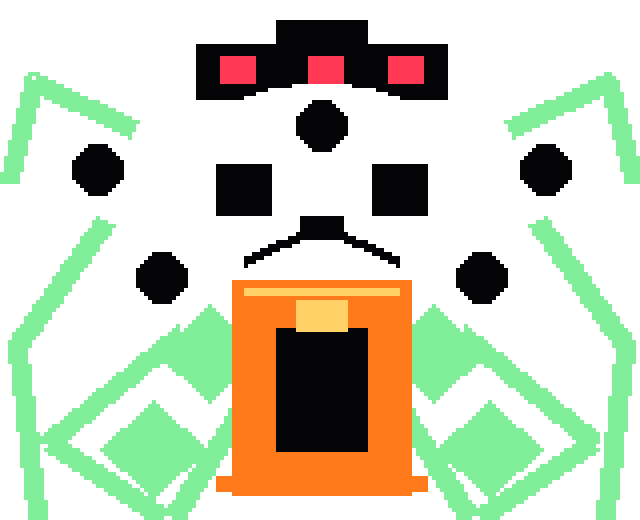
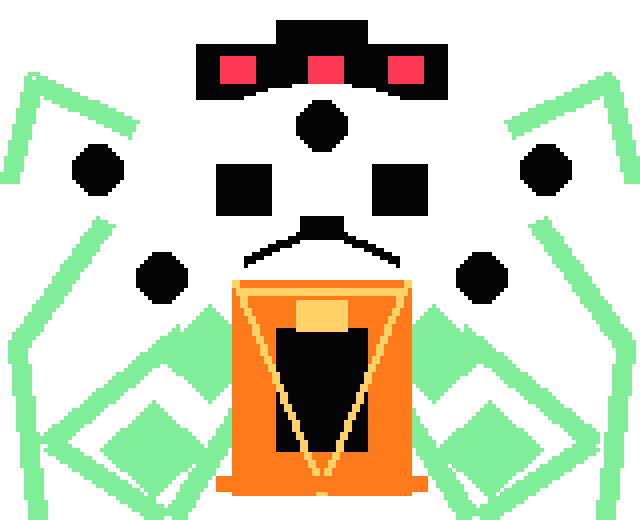
Boost portrait contrast and signature attack speed

diff --git a/script.js b/script.js
@@ -1132,10 +1132,10 @@ function undynePattern(dt) {
     const index = sequenceIndex(0.62);
     const lane = [0.18, 0.36, 0.64, 0.82, 0.5, 0.28, 0.72][index % 7];
     const fromLeft = index % 2 === 0;
-    spawn("spear", { x: fromLeft ? arena.x - 35 : arena.x + arena.w + 35, y: arena.y + arena.h * lane, vx: fromLeft ? 304 : -304, vy: 0, r: 13, angle: fromLeft ? 0 : Math.PI, delay: intensityRange(0.34, 0.24) });
+      spawn("spear", { x: fromLeft ? arena.x - 35 : arena.x + arena.w + 35, y: arena.y + arena.h * lane, vx: fromLeft ? 326 : -326, vy: 0, r: 13, angle: fromLeft ? 0 : Math.PI, delay: intensityRange(0.32, 0.22) });
     if (index % 3 !== 1) {
       const x = arena.x + arena.w * ([0.24, 0.5, 0.76, 0.38, 0.62][index % 5]);
-      spawn("spear", { x, y: arena.y - 35, vx: 0, vy: 266, r: 13, angle: Math.PI / 2, delay: intensityRange(0.42, 0.3) });
+      spawn("spear", { x, y: arena.y - 35, vx: 0, vy: 286, r: 13, angle: Math.PI / 2, delay: intensityRange(0.4, 0.28) });
     }
   }
   if (state.wave === 2 && every("cyclone", 0.34 - attackIntensity() * 0.06, dt)) {
@@ -1145,7 +1145,7 @@ function undynePattern(dt) {
     const x = arena.x + arena.w / 2 + Math.cos(angle) * radiusX;
     const y = arena.y + arena.h / 2 + Math.sin(angle) * radiusY;
     const toward = Math.atan2(state.player.y - y, state.player.x - x);
-    const speed = 232 + attackIntensity() * 46;
+    const speed = 248 + attackIntensity() * 56;
     spawn("spear", { x, y, vx: Math.cos(toward) * speed, vy: Math.sin(toward) * speed, r: 12, angle: toward, delay: intensityRange(0.24, 0.16) });
   }
 }
@@ -1190,8 +1190,8 @@ function asgorePattern(dt) {
     const lane = sequencedEvery("sweep", interval, dt, [0.24, 0.5, 0.76, 0.36, 0.64]);
     if (lane !== null) {
       const y = arena.y + arena.h * lane;
-      spawn("trident", { x: arena.x - 60, y, vx: 440, vy: 0, r: 22, angle: 0, delay: intensityRange(0.5, 0.34) });
-      if (state.wave === 2) spawn("trident", { x: arena.x + arena.w + 60, y: arena.y + arena.h * (1 - lane), vx: -440, vy: 0, r: 22, angle: Math.PI, delay: intensityRange(0.5, 0.34) });
+      spawn("trident", { x: arena.x - 60, y, vx: 472, vy: 0, r: 22, angle: 0, delay: intensityRange(0.48, 0.32) });
+      if (state.wave === 2) spawn("trident", { x: arena.x + arena.w + 60, y: arena.y + arena.h * (1 - lane), vx: -472, vy: 0, r: 22, angle: Math.PI, delay: intensityRange(0.48, 0.32) });
     }
   }
   if (state.wave === 2 && every("flame-curtain", 0.42, dt)) {
@@ -1300,8 +1300,8 @@ function sansPattern(dt) {
     const index = sequenceIndex(boneInterval);
     const h = heights[index % heights.length];
     const speed = 242 + progress * 48;
-    spawn("bone", { x: arena.x + arena.w + 28, y: arena.y + arena.h - h / 2, vx: -speed, vy: 0, r: 14, h });
-    if (state.wave >= 1 && index % 3 !== 1) spawn("bone", { x: arena.x - 28, y: arena.y + h / 2, vx: speed - 18, vy: 0, r: 14, h: Math.max(42, h * 0.62) });
+    spawn("bone", { x: arena.x + arena.w + 28, y: arena.y + arena.h - h / 2, vx: -speed - 12, vy: 0, r: 14, h });
+    if (state.wave >= 1 && index % 3 !== 1) spawn("bone", { x: arena.x - 28, y: arena.y + h / 2, vx: speed, vy: 0, r: 14, h: Math.max(42, h * 0.62) });
   }
   if (state.wave >= 1) {
     const xFrac = sequencedEvery("sans-blue", 0.8, dt, [0.2, 0.42, 0.64, 0.82, 0.34, 0.56]);
@@ -1334,8 +1334,8 @@ function sansPattern(dt) {
         vy: 0,
         r: 24,
         horizontal: beam === "h",
-        warn: intensityRange(0.5, 0.38),
-        life: 0.96,
+        warn: intensityRange(0.46, 0.34),
+        life: 0.88,
       });
     }
   }
@@ -1399,8 +1399,8 @@ function undyingPattern(dt) {
   const crossInterval = 0.58 - progress * 0.06;
   if (state.wave >= 1 && every("undying-cross", crossInterval, dt)) {
     const index = sequenceIndex(crossInterval);
-    spawn("spear", { x: arena.x + arena.w * ([0.2, 0.42, 0.68, 0.84, 0.34, 0.58][index % 6]), y: arena.y - 35, vx: 0, vy: 292 + progress * 26, r: 12, angle: Math.PI / 2, delay: intensityRange(0.26, 0.18) });
-    if (index % 3 !== 1) spawn("spear", { x: arena.x - 35, y: arena.y + arena.h * ([0.26, 0.52, 0.76][index % 3]), vx: 304 + progress * 26, vy: 0, r: 12, angle: 0, delay: intensityRange(0.3, 0.2) });
+    spawn("spear", { x: arena.x + arena.w * ([0.2, 0.42, 0.68, 0.84, 0.34, 0.58][index % 6]), y: arena.y - 35, vx: 0, vy: 314 + progress * 32, r: 12, angle: Math.PI / 2, delay: intensityRange(0.24, 0.16) });
+    if (index % 3 !== 1) spawn("spear", { x: arena.x - 35, y: arena.y + arena.h * ([0.26, 0.52, 0.76][index % 3]), vx: 328 + progress * 30, vy: 0, r: 12, angle: 0, delay: intensityRange(0.28, 0.18) });
   }
 }
 

diff --git a/tools/generate_boss_portraits.py b/tools/generate_boss_portraits.py
@@ -76,6 +76,11 @@ def chest_heart(draw, cx, cy, color=RED):
     rect(draw, (cx - 2, cy + 8, cx + 2, cy + 12), color)
 
 
+def trim_panel(draw, x1, y1, x2, y2, color=WHITE, accent=BLACK):
+    line(draw, [(x1, y1), ((x1 + x2) // 2, y2), (x2, y1)], color, 2)
+    line(draw, [(x1 + 4, y1 + 3), ((x1 + x2) // 2, y2 - 7), (x2 - 4, y1 + 3)], accent, 1)
+
+
 def face_line(draw, cx, cy, width=18):
     rect(draw, (cx - width // 2, cy, cx + width // 2, cy + 2), BLACK)
     rect(draw, (cx - width // 2 + 3, cy + 3, cx - width // 2 + 6, cy + 5), BLACK)
@@ -101,6 +106,8 @@ def sans():
     rect(d, (78, 83, 82, 92), WHITE)
     line(d, [(68, 58), (68, 95)], WHITE, 1)
     line(d, [(92, 58), (92, 95)], WHITE, 1)
+    rect(d, (73, 72, 87, 77), WHITE)
+    rect(d, (77, 73, 83, 76), BLACK)
     rect(d, (57, 64, 68, 79), WHITE)
     rect(d, (92, 64, 103, 79), WHITE)
     rect(d, (54, 79, 70, 91), WHITE)
@@ -147,6 +154,7 @@ def papyrus():
     shirt_panel(d, 57, 67, 103, 93, BLACK, WHITE)
     rect(d, (66, 70, 94, 83), WHITE)
     rect(d, (72, 73, 88, 82), BLACK)
+    rect(d, (76, 70, 84, 83), RED)
     rect(d, (70, 58, 90, 63), RED)
     line(d, [(52, 45), (96, 66)], RED, 5)
     line(d, [(108, 44), (69, 66)], RED, 4)
@@ -191,6 +199,7 @@ def undyne(name="undyne", undying=False):
     rect(d, (76, 99, 84, 113), armor)
     line(d, [(57, 69), (103, 69)], WHITE, 2)
     line(d, [(80, 63), (80, 114)], WHITE, 2)
+    trim_panel(d, 61, 72, 99, 108, WHITE, BLACK)
     if undying:
         rect(d, (69, 72, 91, 88), RED)
         line(d, [(47, 73), (113, 73)], GREEN, 3)
@@ -228,6 +237,8 @@ def asgore():
     line(d, [(65, 80), (95, 80)], GOLD, 2)
     chest_heart(d, 80, 95, GOLD)
     line(d, [(56, 74), (80, 121), (104, 74)], GOLD, 2)
+    rect(d, (72, 83, 88, 88), GOLD)
+    rect(d, (75, 86, 85, 111), GOLD)
     poly(d, [(52, 72), (20, 126), (55, 122)], WHITE)
     poly(d, [(108, 72), (140, 126), (105, 122)], WHITE)
     line(d, [(80, 74), (80, 119)], YELLOW, 3)
@@ -272,6 +283,7 @@ def omega():
     rect(d, (69, 82, 91, 112), BLACK)
     rect(d, (74, 75, 86, 82), YELLOW)
     line(d, [(61, 72), (99, 72)], YELLOW, 2)
+    line(d, [(58, 70), (80, 123), (102, 70)], YELLOW, 2)
     line(d, [(54, 120), (106, 120)], ORANGE, 4)
     save(img, "omega")
 
@@ -310,6 +322,7 @@ def asriel():
     rect(d, (73, 84, 87, 93), BLUE)
     rect(d, (66, 66, 94, 70), WHITE)
     line(d, [(63, 68), (80, 104), (97, 68)], WHITE, 2)
+    trim_panel(d, 61, 67, 99, 112, WHITE, BLACK)
     line(d, [(63, 64), (46, 104)], WHITE, 2)
     line(d, [(97, 64), (114, 104)], WHITE, 2)
     line(d, [(41, 86), (21, 123)], WHITE, 3)
@@ -336,6 +349,8 @@ def mettaton():
     rect(d, (76, 82, 84, 90), PINK)
     rect(d, (57, 66, 103, 70), PINK)
     line(d, [(64, 70), (80, 118), (96, 70)], PINK, 2)
+    rect(d, (70, 76, 90, 98), PINK)
+    rect(d, (75, 81, 85, 93), WHITE)
     line(d, [(50, 73), (17, 117)], WHITE, 3)
     line(d, [(110, 73), (143, 117)], WHITE, 3)
     line(d, [(65, 101), (43, 126)], WHITE, 4)

diff --git a/README.md b/README.md
@@ -21,6 +21,7 @@ The BGM loops are original chiptune-style tracks tuned to each boss's mood and t
 Boss portraits use original fan-art pixel sprites made from small square pieces with recognizable character shapes, outfits, weapons, and poses.
 Portraits now place faces, shirts, armor panels, robes, and chest emblems more deliberately so the characters read better at battle size and roster-thumbnail size.
 The latest portrait pass adds stronger facial features, teeth or mouth lines, costume seams, and centered shirt/core panels for clearer character reads.
+Portraits now use extra high-contrast costume dividers so faces and shirts stay readable after the game scales them down.
 The boss select cards also show these portraits as pixel thumbnails so the roster is recognizable before the fight starts.
 In battle, each portrait has boss-specific sizing and a pixel outline so large bosses, short bosses, and trio characters keep their intended silhouettes.
 The battle stage also draws boss-specific pixel cues behind portraits, including bones, spears, tridents, flames, vines, eyes, wings, stars, and Mettaton-style lights.
@@ -49,6 +50,7 @@ Asgore now includes blue/orange flame reads, Sans blue-heart waves include gravi
 Normal mode is tuned for learning, with lower damage, slower attacks, and a bullet cap so waves stay dodgeable.
 Bullet speed and spawn rate now use boss-and-wave-specific pacing profiles, with a small in-canvas speed/rate readout for practice tuning.
 Several slower waves now use slightly faster bullet-speed profiles so attacks appear sooner and feel closer to the source fights while keeping the same safety caps.
+Signature weapon patterns now have snappier spear, trident, bone, and beam movement while preserving planned gaps and telegraphs.
 Dynamic wave ramps use staged opener/build/finale intensity, so attacks start readable and tighten toward the end instead of changing at one flat rate.
 Weapon warnings and hazard telegraphs also follow that intensity curve, giving longer reads at the start of a turn and quicker warnings during the finale.
 Pattern sequencing now advances with the tuned spawn rate, so faster waves use the intended ordered reads instead of repeating lanes; Sans, Undyne, Undying, Asgore, Omega, Asriel, Mettaton, and Disbelief patterns have tighter speeds and more source-style safe gaps.
